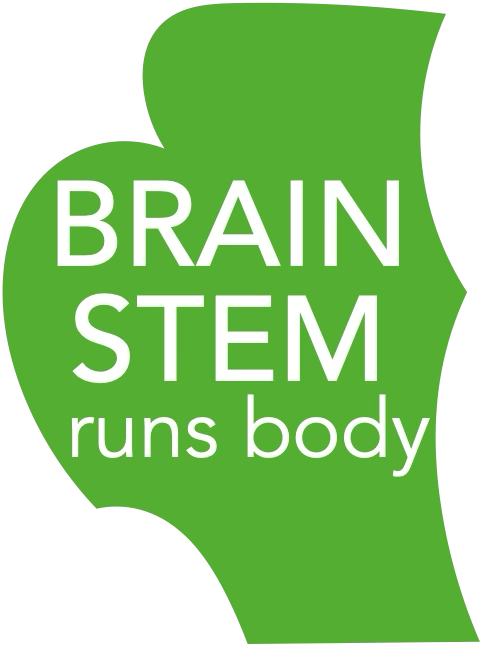
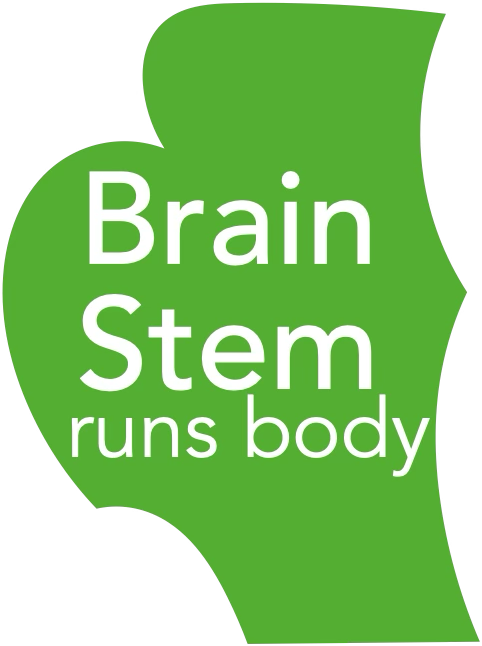
Update brain images: labels now Title Case (Cortex / Limbic / Brain Stem)
Same shapes and dimensions as before — just the bundled labels changed
from ALL CAPS to Title Case for a softer, more readable feel. SVG
positions unchanged; added ?v=2 to each image href so browsers refetch.

Changed region(s): [[0.0934, 0.2477, 0.8402, 0.6192]]

diff --git a/index.html b/index.html
@@ -296,17 +296,17 @@
              label baked in. -->
         <g class="wiring-brain">
           <g class="brain-layer" data-region="cortex">
-            <image href="assets/brain-cortex.png"
+            <image href="assets/brain-cortex.png?v=2"
                    x="20" y="6" width="220" height="127"
                    preserveAspectRatio="xMidYMid meet" />
           </g>
           <g class="brain-layer" data-region="limbic">
-            <image href="assets/brain-limbic.png"
+            <image href="assets/brain-limbic.png?v=2"
                    x="84" y="59" width="97" height="77"
                    preserveAspectRatio="xMidYMid meet" />
           </g>
           <g class="brain-layer" data-region="brainstem">
-            <image href="assets/brain-brainstem.png"
+            <image href="assets/brain-brainstem.png?v=2"
                    x="123" y="111" width="56" height="75"
                    preserveAspectRatio="xMidYMid meet" />
           </g>
@@ -486,17 +486,17 @@
         <!-- ===== BRAIN ===== (image-based, same as Part 1 wiring) -->
         <g class="wiring-brain">
           <g class="brain-layer" data-region="cortex">
-            <image href="assets/brain-cortex.png"
+            <image href="assets/brain-cortex.png?v=2"
                    x="20" y="6" width="220" height="127"
                    preserveAspectRatio="xMidYMid meet" />
           </g>
           <g class="brain-layer" data-region="limbic">
-            <image href="assets/brain-limbic.png"
+            <image href="assets/brain-limbic.png?v=2"
                    x="84" y="59" width="97" height="77"
                    preserveAspectRatio="xMidYMid meet" />
           </g>
           <g class="brain-layer" data-region="brainstem">
-            <image href="assets/brain-brainstem.png"
+            <image href="assets/brain-brainstem.png?v=2"
                    x="123" y="111" width="56" height="75"
                    preserveAspectRatio="xMidYMid meet" />
           </g>